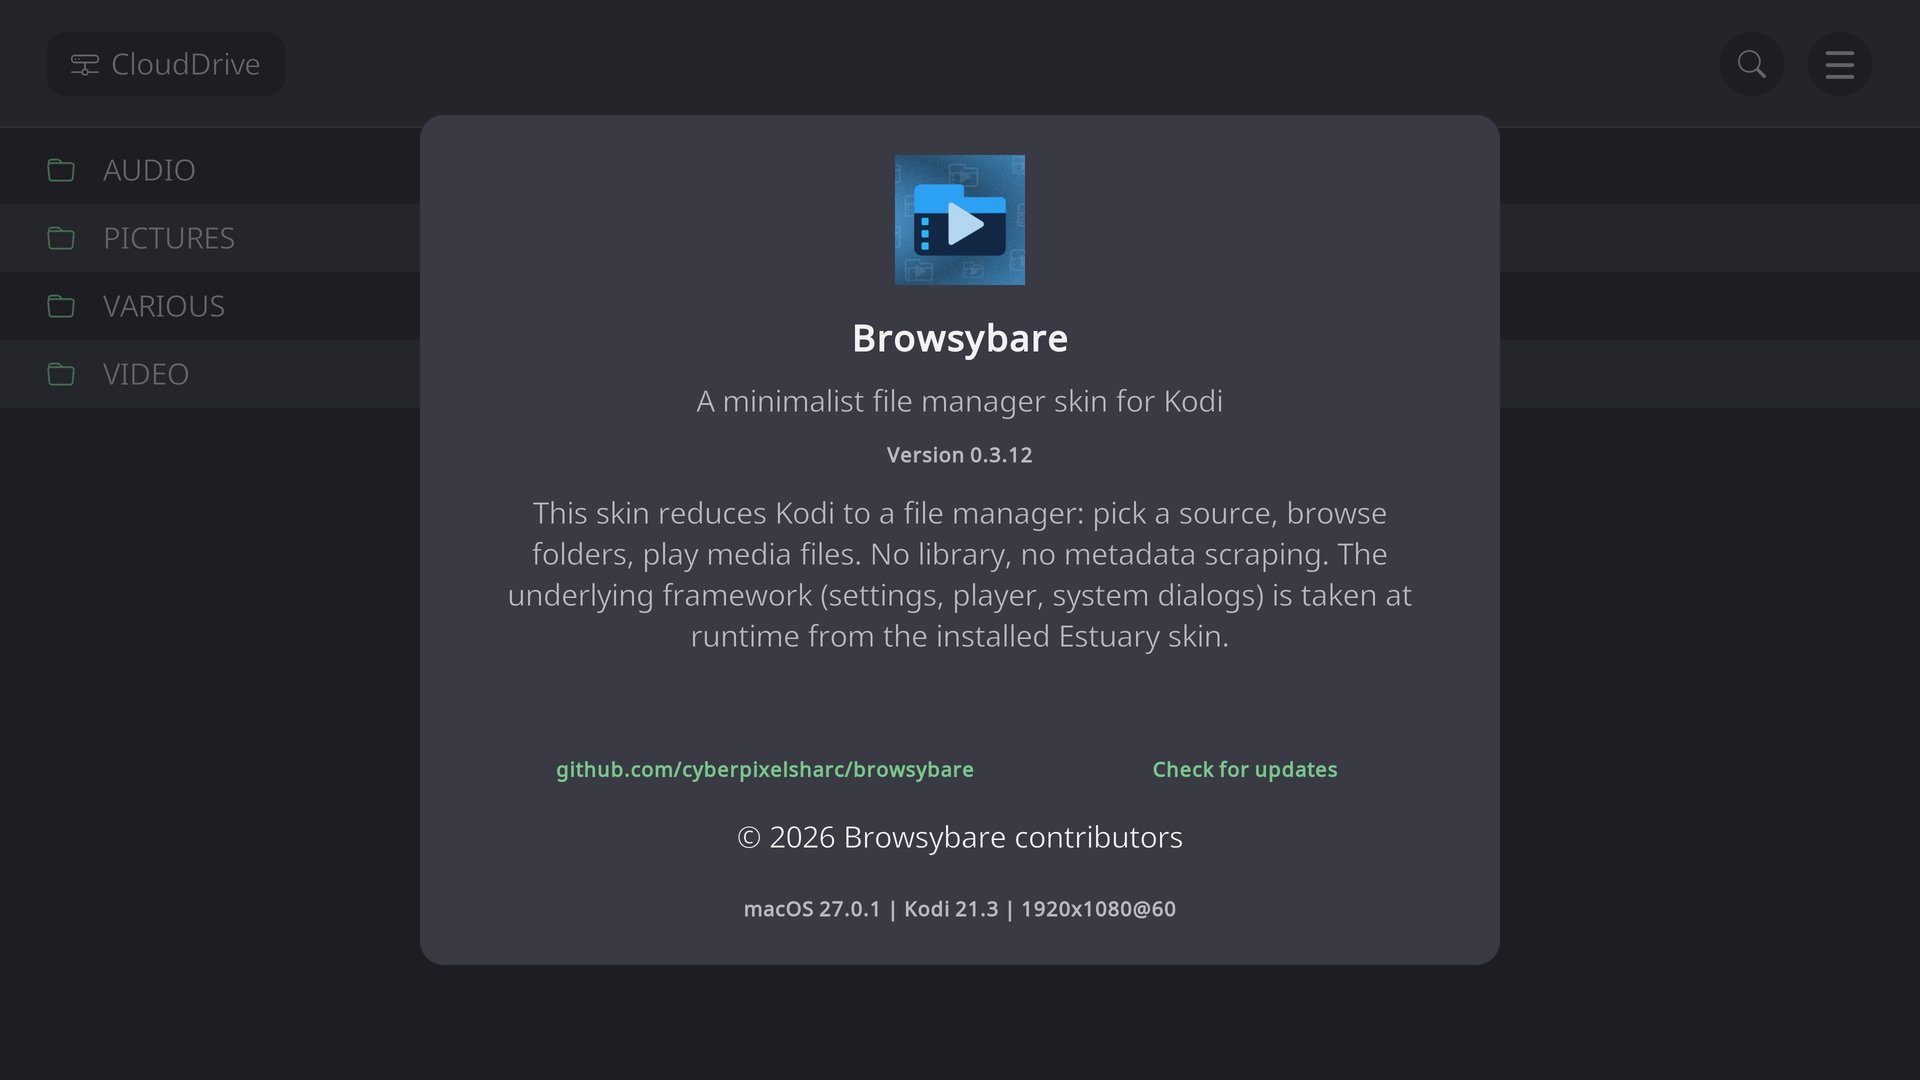
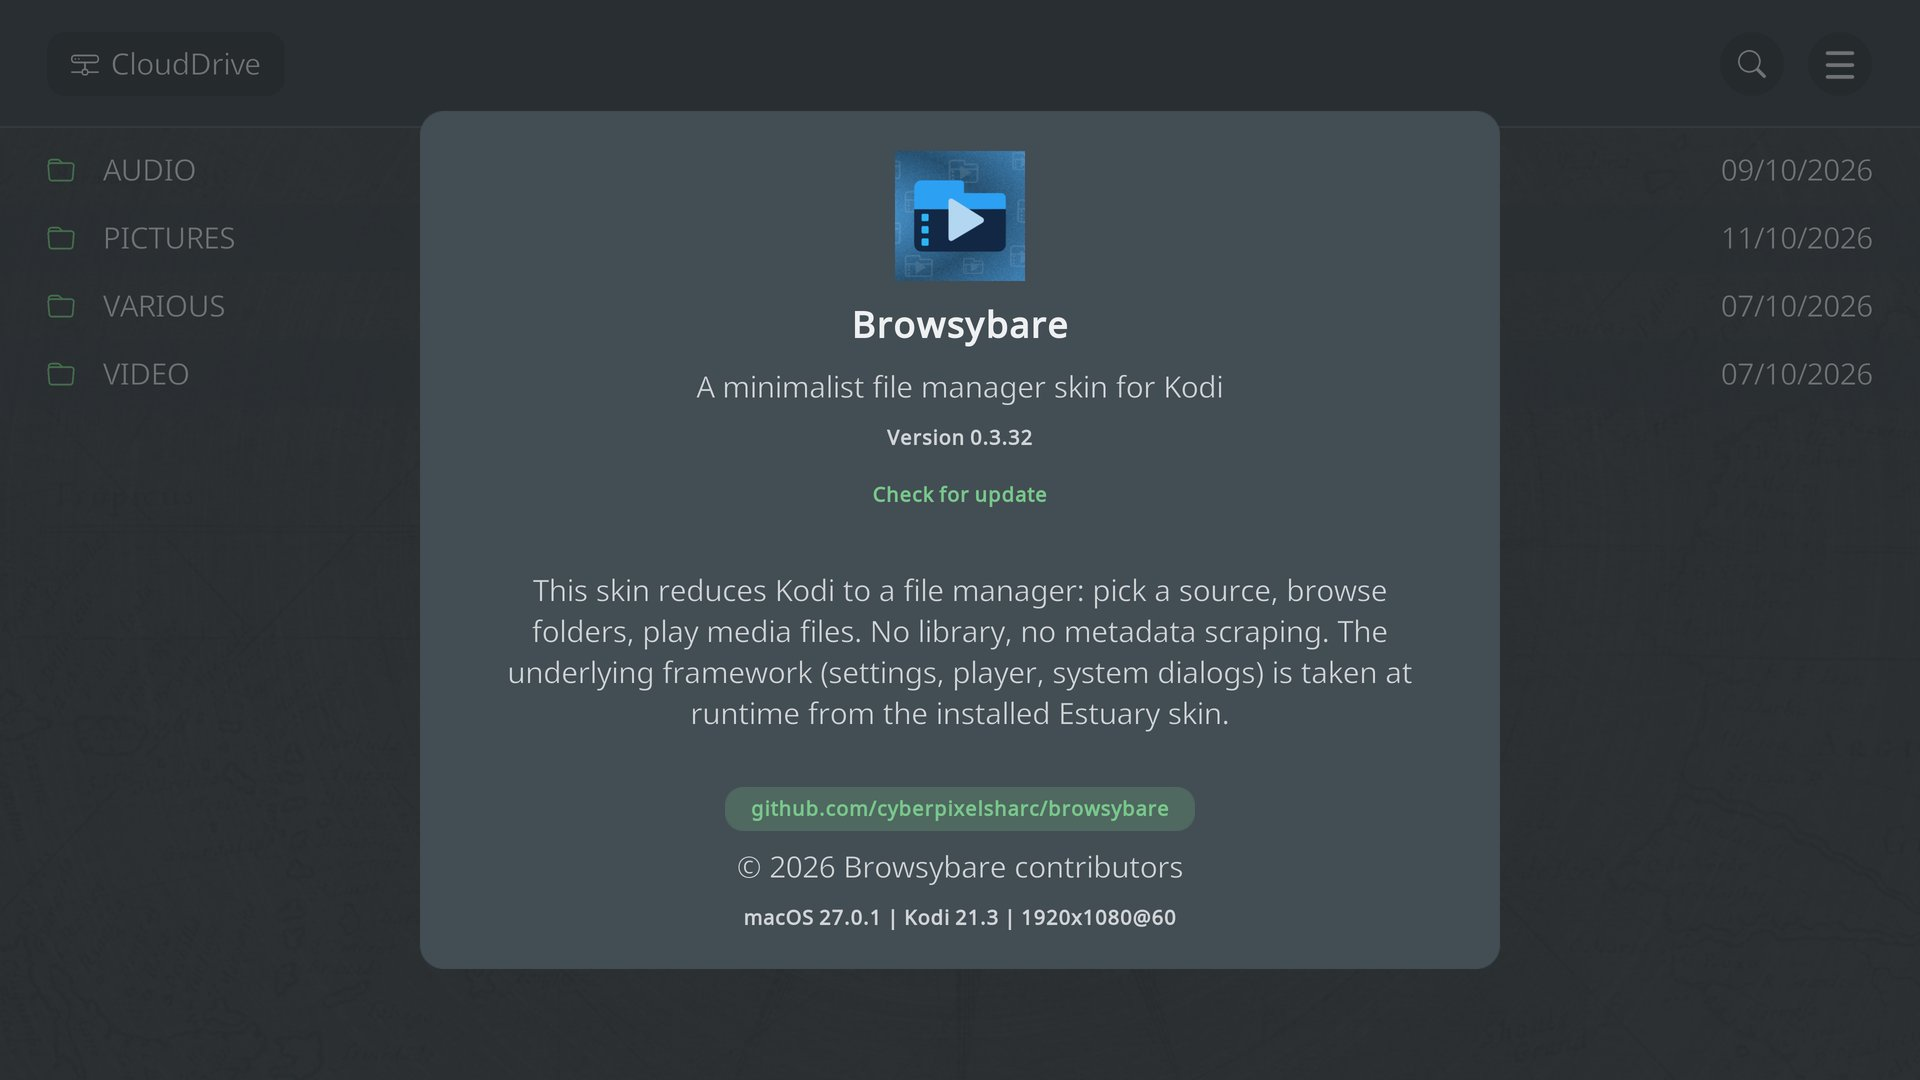
Browsybare 0.3.32

diff --git a/scripts/fileops.py b/scripts/fileops.py
@@ -13,7 +13,7 @@ import xbmc
 import xbmcgui
 import xbmcvfs
 
-from common import fs_path, log, L, skin_name, safe_label, redact, path_enc, path_dec, natkey, play_str, state_dir, cache_key, heic_capable, focus_control, listing_get, listing_put
+from common import fs_path, log, L, skin_name, safe_label, redact, path_enc, path_dec, natkey, play_str, state_dir, cache_key, heic_capable, focus_control, listing_get, listing_put, listing_drop
 from urllib.parse import quote, unquote
 import keyboard
 import blacklist
@@ -94,10 +94,16 @@ def _net_dead(path):
         return False
 
 
-def _net_rescan(folder):
-    """Ask the foldersize daemon to drop its cooldown for a just-changed network
-    folder, so a new/changed entry's size+date are fetched right away instead of
-    waiting out NET_RESCAN_SECS (the daemon only scans the current folder)."""
+def _net_changed(folder):
+    """A network folder's contents just changed (rename/create/delete). Drop its
+    cached listing so the browser re-lists the new names at once -- a still-fresh
+    entry would serve the old names for the whole LISTING_TTL (the stale-while-
+    revalidate refresh only runs once the cache is old) -- and ask the foldersize
+    daemon to drop its cooldown so the new entry's size+date come right away."""
+    try:
+        listing_drop(folder)
+    except Exception:
+        pass
     try:
         win = xbmcgui.Window(10000)
         win.setProperty("bp.netscan.path", path_enc(folder.rstrip("/")))
@@ -693,7 +699,7 @@ def rename(path=None):
         log("rename: %s -> %s" % (redact(p), redact(new_path)))
         _reload_list()
         if net:
-            _net_rescan(os.path.dirname(p.rstrip("/")))
+            _net_changed(os.path.dirname(p.rstrip("/")))
     except Exception as e:
         log("rename failed: %s" % e)
         xbmcgui.Dialog().notification(skin_name(), safe_label(L(31336) % e), xbmcgui.NOTIFICATION_ERROR, 4000)
@@ -789,7 +795,7 @@ def mkdircreate():
                 raise OSError("VFS mkdir failed")
             log("mkdir: %s" % redact(new_path))
             _reload_list()
-            _net_rescan(cur_raw)
+            _net_changed(cur_raw)
         except Exception as e:
             log("mkdir failed: %s" % e)
             xbmcgui.Dialog().notification(skin_name(), safe_label(L(31338) % e), xbmcgui.NOTIFICATION_ERROR, 4000)
@@ -871,7 +877,7 @@ def delconfirm():
         log("delete: %s" % redact(p))
         _reload_list()
         if _net(p):
-            _net_rescan(os.path.dirname(p.rstrip("/")))
+            _net_changed(os.path.dirname(p.rstrip("/")))
     except Exception as e:
         log("delete failed: %s" % e)
         xbmcgui.Dialog().notification(skin_name(), safe_label(L(31337) % e), xbmcgui.NOTIFICATION_ERROR, 4000)
@@ -1124,7 +1130,7 @@ def _paste_vfs(src, dest, mode):
             win.setProperty("bp.pasterefresh.path", path_enc(dest))
             # The folder may still be on its size/date cooldown; let the new
             # file get its size+date now instead of after NET_RESCAN_SECS.
-            _net_rescan(dest)
+            _net_changed(dest)
         time.sleep(0.2)
         xbmc.executebuiltin("SetFocus(33)")
     except _ProgCancelled:

diff --git a/scripts/main.py b/scripts/main.py
@@ -874,6 +874,11 @@ def accent_next():
         if val:
             win.setProperty("bp.accent.%s" % key, val)
     win.setProperty("bp.accent.focus", nxt)
+    try:
+        _tab = int(win.getProperty("bp.settings.tab") or 1)
+    except (TypeError, ValueError):
+        _tab = 1
+    _tab_colors(win, _tab)
     log("accent: slot %d (%s)" % (slot, nxt))
 
 
@@ -901,6 +906,16 @@ def intensity_next():
 GUISOUND_VOLUMES = (0, 25, 50, 75, 100)
 
 
+def _tab_colors(win, tab):
+    """Per-tab caption colours (bp.tabc.1-5): the active tab gets the accent,
+    the others the dim theme text. The captions are single labels -- the former
+    active/inactive label pair shifted the text by a few px in Kodi."""
+    accent = xbmc.getInfoLabel("Skin.String(accent)")
+    text2 = win.getProperty("bp.theme.text2")
+    for n in range(1, 6):
+        win.setProperty("bp.tabc.%d" % n, accent if n == tab else text2)
+
+
 def settings_tab(tab, tabid):
     """Switch the settings tab and reset its shared grouplist (id 91) scroll:
     briefly focus the tab's top row, then return focus to the tab button."""
@@ -910,6 +925,7 @@ def settings_tab(tab, tabid):
         return
     win = xbmcgui.Window(10000)
     win.setProperty("bp.settings.tab", str(tab))
+    _tab_colors(win, tab)
     time.sleep(0.08)
     candidates = {1: (274,), 2: (272, 701), 3: (129, 105, 271),
                   4: (277,), 5: (500,)}.get(tab, ())

diff --git a/scripts/sync.py b/scripts/sync.py
@@ -1307,7 +1307,12 @@ THEME_DIR = "themes"
 THEME_DEFAULT = "ForestNineMedium"
 THEME_ROLES = ("bg", "panel", "panel_solid", "panel_solid2", "row", "zebra",
                "header", "raised", "raised2", "raised3", "surface", "divider",
-               "divider2", "veil", "text", "text2", "muted", "control")
+               "divider2", "text", "text2", "muted", "control")
+# The dim backdrop behind every modal/menu is a FIXED neutral gray, identical
+# for all themes: a theme must not tint it (e.g. a blue-gray veil cast a colour
+# over the dimmed file manager and top bar). bp.theme.veil is still set -- the
+# XML reads it -- but no longer comes from the theme file.
+THEME_VEIL = "80101010"
 
 
 def _theme_files(base=None):
@@ -1471,6 +1476,8 @@ def themes(tid=None):
             win.setProperty("bp.theme.%s" % role, v)
         else:
             win.clearProperty("bp.theme.%s" % role)
+    # Fixed neutral dim backdrop, independent of the theme (see THEME_VEIL).
+    win.setProperty("bp.theme.veil", THEME_VEIL)
     win.setProperty("bp.theme.id", tid)
     # The file name IS the display name (creative/international, not translated).
     win.setProperty("bp.theme.name", tid)

diff --git a/scripts/common.py b/scripts/common.py
@@ -285,6 +285,23 @@ def listing_put(folder, dirs, files, details=None):
         pass
 
 
+def listing_drop(folder):
+    """Forget the cached listing of a `folder`. Called after a rename/create/
+    delete so the browser re-lists instead of serving the stale child names (a
+    still-fresh entry would skip the stale-while-revalidate refresh for the whole
+    LISTING_TTL)."""
+    path = listing_cache_path()
+    if not path:
+        return
+    try:
+        data = read_json(path, {})
+        if isinstance(data, dict):
+            data.pop(cache_key((folder or "").rstrip("/")), None)
+            write_json(path, data)
+    except Exception:
+        pass
+
+
 def safe_label(s):
     """Kodi-safe display string: plain str, no surrogates (undecodable filenames segfault Kodi's Python bindings). Original bytes are guessed back (UTF-8 then cp1252); navigation paths stay raw -- display only."""
     try:

diff --git a/changelogs/0.3.32.md b/changelogs/0.3.32.md
@@ -1,0 +1,6 @@
+# 0.3.32 (2026-10-11, release)
+- Fixed the settings tab captions in fullscreen. Each tab had two overlapping labels (active accent / inactive grey) at the same place; swapping one for the other made Kodi lay the text out a hair differently, so the caption shifted a few pixels to the right and clipped its last letter. The captions are now a single label per tab, coloured through a window property the skin keeps for the active tab (accent) and the others (dim), with a space of padding on each side (a centred Kodi label clips its last glyph at its own text edge). No more shift, no clipping -- windowed and fullscreen. The labels stay 190 px wide so the long translations (it/ro "Telecomando/Telecomandă") plus the padding fit.
+- Renaming a file on a network source (e.g. WebDAV/Shadow Drive) now shows the new name right away. The rename itself worked, but the browser served its cached listing (up to 5 minutes old) and, while the cache was still fresh, skipped the background refresh, so the old name stayed on screen. A network rename/create/delete now drops that folder's listing cache (`common.listing_drop` via `fileops._net_changed`), so the list re-fetches.
+- The dim backdrop behind modals and menus is now a single fixed neutral gray (`sync.THEME_VEIL` = `80101010`) instead of a per-theme colour (it used to be the theme's own tinted `veil` role, e.g. ForestNine's blue-gray `80101416`). Opening a modal therefore no longer casts a colour over the dimmed file manager and top bar. `veil` is no longer a theme role (dropped from `themes/*.json` and `THEME_ROLES`); the XML still reads `bp.theme.veil`, which `sync.themes` now sets to the constant.
+
+
